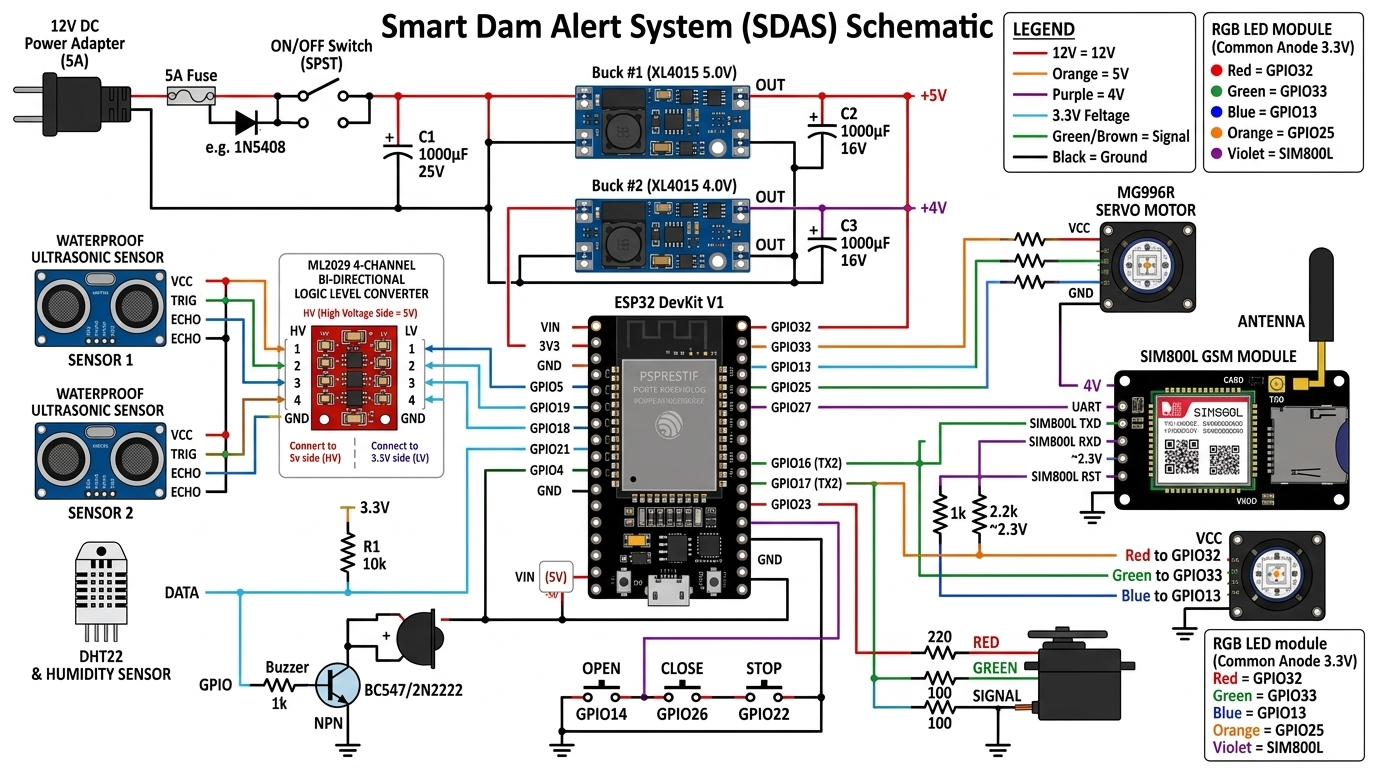
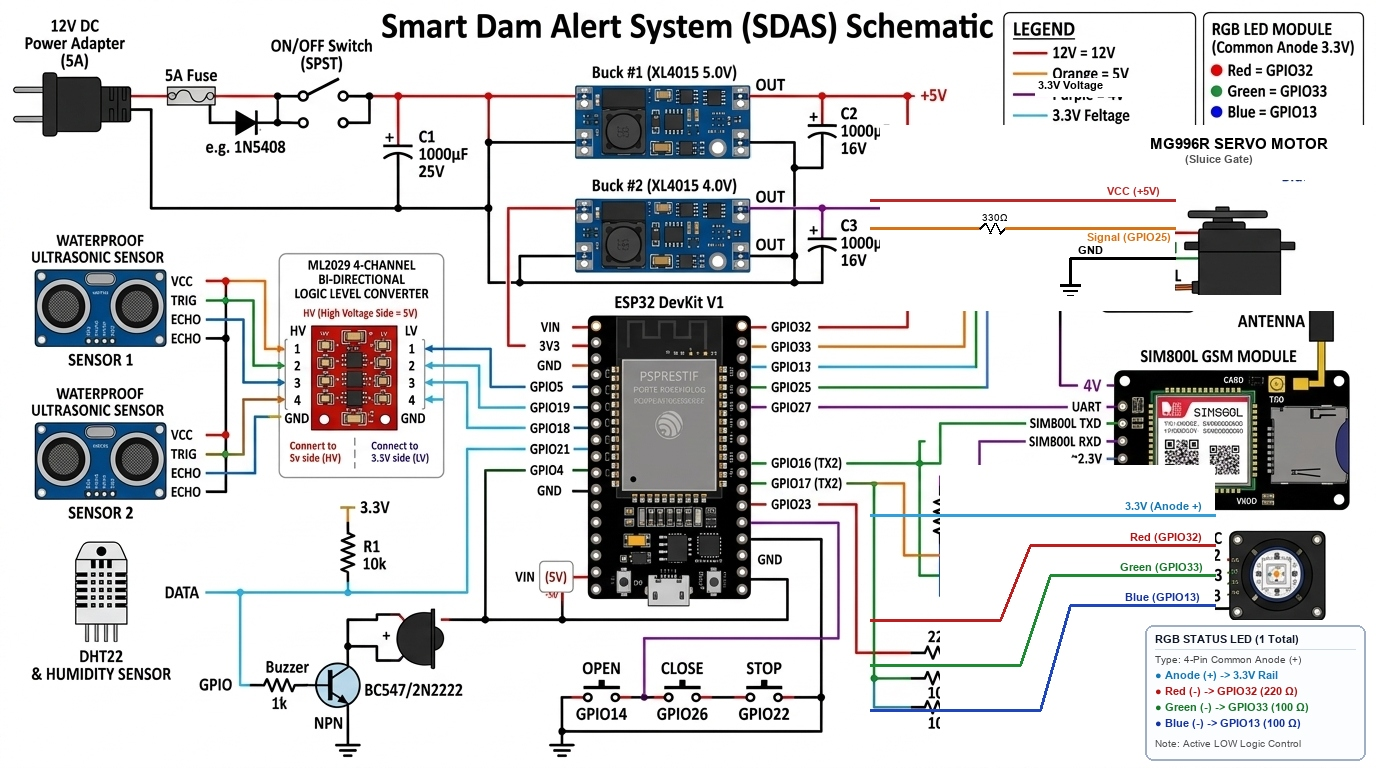
Correct circuit schematic diagram: eliminate duplicate servo motor and properly wire RGB LED module

Changed region(s): [[0.625, 0.5938, 1.0, 1.0], [0.625, 0.1562, 0.9688, 0.4062], [0.75, 0.0938, 0.8125, 0.125]]

diff --git a/hardware_docs/fix_schematic.py b/hardware_docs/fix_schematic.py
@@ -1,0 +1,135 @@
+import os
+from PIL import Image, ImageDraw, ImageFont
+
+def fix_schematic():
+    # Load pristine original schematic
+    os.system('git checkout hardware_docs/sdas_corrected_circuit_schematic.jpg')
+    img_path = 'hardware_docs/sdas_corrected_circuit_schematic.jpg'
+    img = Image.open(img_path).convert('RGB')
+    draw = ImageDraw.Draw(img)
+
+    # Fonts
+    font_bold = ImageFont.truetype('C:/Windows/Fonts/arialbd.ttf', 13)
+    font_title = ImageFont.truetype('C:/Windows/Fonts/arialbd.ttf', 15)
+    font_small_bold = ImageFont.truetype('C:/Windows/Fonts/arialbd.ttf', 11)
+    font_small = ImageFont.truetype('C:/Windows/Fonts/arial.ttf', 10)
+
+    # ----------------------------------------------------
+    # 1. FIX "3.3V Feltage" -> "3.3V Voltage" in Legend Box
+    # ----------------------------------------------------
+    # "3.3V Feltage" is at x: 1035..1135, y: 78..95
+    draw.rectangle([1035, 78, 1135, 96], fill=(255, 255, 255))
+    draw.text((1038, 79), "3.3V Voltage", fill=(0, 0, 0), font=font_small_bold)
+
+    # ----------------------------------------------------
+    # 2. EXTRACT CLEAN SERVO MOTOR ICON BEFORE OVERWRITE
+    # ----------------------------------------------------
+    servo_icon = img.crop((1015, 600, 1145, 715))
+
+    # ----------------------------------------------------
+    # 3. FIX TOP-RIGHT: MG996R SERVO MOTOR
+    # ----------------------------------------------------
+    # Clear entire top-right under the legends down to y: 310
+    draw.rectangle([880, 125, 1370, 310], fill=(255, 255, 255))
+
+    # Re-draw title
+    draw.text((1150, 135), "MG996R SERVO MOTOR", fill=(0, 0, 0), font=font_title)
+    draw.text((1185, 153), "(Sluice Gate)", fill=(80, 80, 80), font=font_small_bold)
+
+    # Paste Servo Motor Icon at top right: x: 1175, y: 180
+    servo_x = 1175
+    servo_y = 180
+    img.paste(servo_icon, (servo_x, servo_y))
+
+    # Connect the 3 proper wires into the MG996R Servo:
+    # Wire 1: +5V Rail (Red, coming from 5V rail at y: 195)
+    vcc_y = 200
+    draw.line([(870, vcc_y), (servo_x, vcc_y)], fill=(190, 40, 40), width=3)
+    draw.text((servo_x - 68, vcc_y - 15), "VCC (+5V)", fill=(190, 40, 40), font=font_small_bold)
+
+    # Wire 2: Signal (Orange, coming from ESP32 GPIO25 at y: 228)
+    sig_y = 228
+    draw.line([(870, sig_y), (980, sig_y)], fill=(215, 115, 20), width=3)
+    # Resistor 330 ohm
+    r_pts = [(980, sig_y), (985, sig_y - 5), (990, sig_y + 5), (995, sig_y - 5), (1000, sig_y + 5), (1005, sig_y)]
+    draw.line(r_pts, fill=(0, 0, 0), width=2)
+    draw.line([(1005, sig_y), (servo_x, sig_y)], fill=(215, 115, 20), width=3)
+    draw.text((982, sig_y - 17), "330Ω", fill=(0, 0, 0), font=font_small)
+    draw.text((servo_x - 88, sig_y + 3), "Signal (GPIO25)", fill=(215, 115, 20), font=font_small_bold)
+
+    # Wire 3: GND (Black, to ground at y: 258)
+    gnd_y = 258
+    draw.line([(servo_x, gnd_y), (1070, gnd_y)], fill=(0, 0, 0), width=3)
+    draw.line([(1070, gnd_y), (1070, 285)], fill=(0, 0, 0), width=3)
+    # Ground symbol
+    draw.line([(1060, 285), (1080, 285)], fill=(0, 0, 0), width=3)
+    draw.line([(1063, 290), (1077, 290)], fill=(0, 0, 0), width=2)
+    draw.line([(1067, 295), (1073, 295)], fill=(0, 0, 0), width=1)
+    draw.text((1078, gnd_y - 14), "GND", fill=(0, 0, 0), font=font_small_bold)
+
+    # ----------------------------------------------------
+    # 4. FIX BOTTOM-RIGHT: RGB LED MODULE (REMOVE 2ND SERVO)
+    # ----------------------------------------------------
+    # Clear the duplicate servo, messy lines, and old duplicate texts
+    draw.rectangle([940, 465, 1214, 765], fill=(255, 255, 255))
+    draw.rectangle([1140, 620, 1375, 765], fill=(255, 255, 255))
+
+    # The RGB LED Module icon sits at x: 1215
+    led_x = 1215
+
+    # Connect the 4 clean lines from the resistors on the left straight into the RGB LED Module:
+    # 1. 3.3V Anode (+) - Cyan/Light blue (Pin 1)
+    anode_y = 515
+    draw.line([(870, anode_y), (led_x, anode_y)], fill=(50, 160, 220), width=3)
+    draw.text((led_x - 90, anode_y - 15), "3.3V (Anode +)", fill=(20, 120, 180), font=font_small_bold)
+
+    # 2. Red (-) - GPIO32 with 220 ohm resistor (Pin 2)
+    red_y = 545
+    draw.line([(870, 620), (1000, 620)], fill=(190, 30, 30), width=3)
+    draw.line([(1000, 620), (1030, red_y)], fill=(190, 30, 30), width=3)
+    draw.line([(1030, red_y), (led_x, red_y)], fill=(190, 30, 30), width=3)
+    draw.text((led_x - 85, red_y - 14), "Red (GPIO32)", fill=(180, 20, 20), font=font_small_bold)
+
+    # 3. Green (-) - GPIO33 with 100 ohm resistor (Pin 3)
+    green_y = 575
+    draw.line([(870, 665), (1020, 665)], fill=(30, 140, 50), width=3)
+    draw.line([(1020, 665), (1050, green_y)], fill=(30, 140, 50), width=3)
+    draw.line([(1050, green_y), (led_x, green_y)], fill=(30, 140, 50), width=3)
+    draw.text((led_x - 95, green_y - 14), "Green (GPIO33)", fill=(20, 120, 40), font=font_small_bold)
+
+    # 4. Blue (-) - GPIO13 with 100 ohm resistor (Pin 4)
+    blue_y = 605
+    draw.line([(870, 710), (1040, 710)], fill=(30, 70, 190), width=3)
+    draw.line([(1040, 710), (1070, blue_y)], fill=(30, 70, 190), width=3)
+    draw.line([(1070, blue_y), (led_x, blue_y)], fill=(30, 70, 190), width=3)
+    draw.text((led_x - 90, blue_y - 14), "Blue (GPIO13)", fill=(20, 50, 160), font=font_small_bold)
+
+    # Clean Legend Card in bottom-right corner
+    leg_x = 1145
+    leg_y = 625
+    leg_w = 220
+    leg_h = 135
+    draw.rounded_rectangle([leg_x, leg_y, leg_x + leg_w, leg_y + leg_h], radius=8, fill=(252, 253, 255), outline=(160, 175, 195), width=2)
+
+    draw.text((leg_x + 10, leg_y + 8), "RGB STATUS LED (1 Total)", fill=(15, 23, 42), font=font_small_bold)
+    draw.line([(leg_x + 10, leg_y + 24), (leg_x + leg_w - 10, leg_y + 24)], fill=(210, 220, 230), width=1)
+    draw.text((leg_x + 10, leg_y + 28), "Type: 4-Pin Common Anode (+)", fill=(70, 70, 70), font=font_small)
+    draw.text((leg_x + 10, leg_y + 44), "● Anode (+) -> 3.3V Rail", fill=(20, 120, 180), font=font_small_bold)
+    draw.text((leg_x + 10, leg_y + 60), "● Red (-) -> GPIO32 (220 Ω)", fill=(180, 20, 20), font=font_small_bold)
+    draw.text((leg_x + 10, leg_y + 76), "● Green (-) -> GPIO33 (100 Ω)", fill=(20, 120, 40), font=font_small_bold)
+    draw.text((leg_x + 10, leg_y + 92), "● Blue (-) -> GPIO13 (100 Ω)", fill=(20, 50, 160), font=font_small_bold)
+    draw.text((leg_x + 10, leg_y + 112), "Note: Active LOW Logic Control", fill=(80, 80, 80), font=font_small)
+
+    # Save outputs
+    out_jpg = 'hardware_docs/sdas_corrected_circuit_schematic.jpg'
+    out_png = 'hardware_docs/sdas_corrected_circuit_schematic.png'
+    out_brain = 'C:/Users/adria/.gemini/antigravity/brain/0c14942f-4bad-47bf-874a-33bdb3daeaf3/sdas_circuit_diagram_1791839333607.jpg'
+
+    img.save(out_jpg, 'JPEG', quality=98)
+    img.save(out_png, 'PNG')
+    img.save(out_brain, 'JPEG', quality=98)
+
+    print("Schematic successfully fixed and saved to:", out_jpg, out_png, out_brain)
+
+if __name__ == '__main__':
+    fix_schematic()
